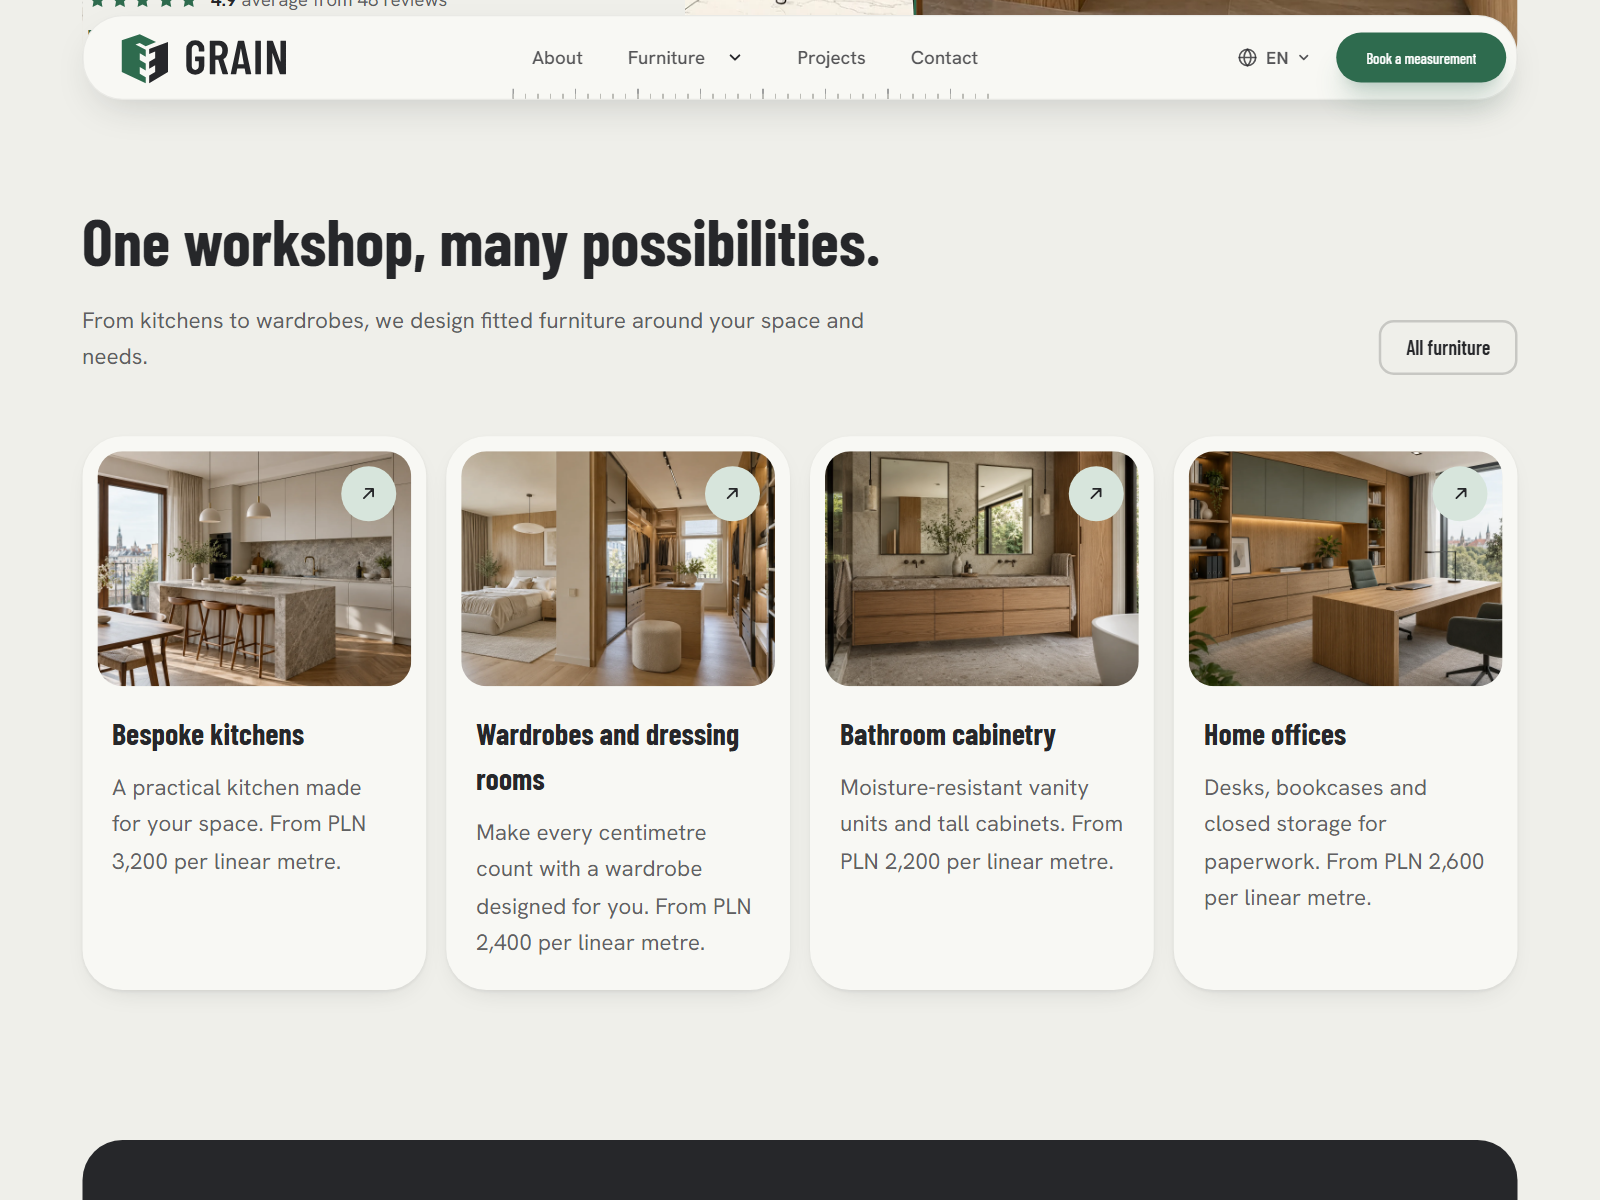
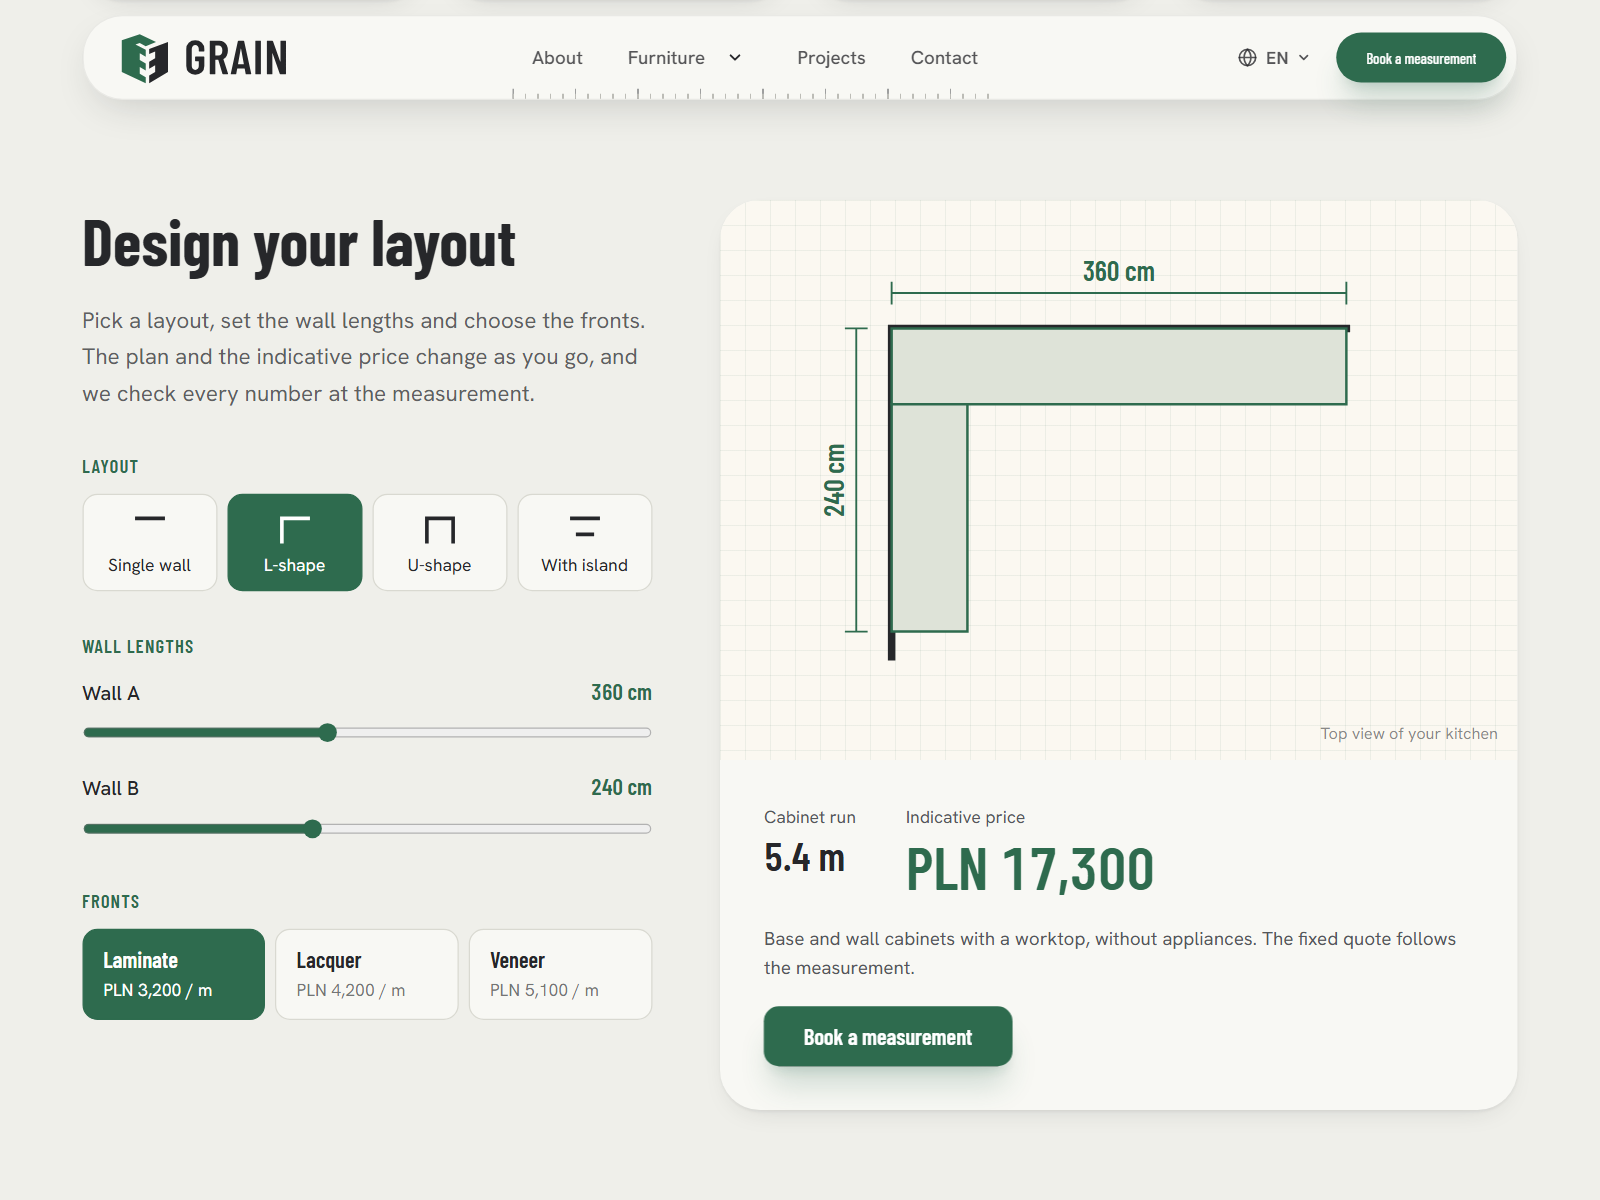
projekt: feat(katalog), Grain i Pine: kalkulator, FAQ, śniadania i zasady pobytu w opisach i zrzutach, pole screens w template.json

diff --git a/templates/grain/copy/dribbble.md b/templates/grain/copy/dribbble.md
@@ -1,7 +1,7 @@
 Title: Grain, Bespoke Furniture Website
 
 Description:
-Grain is a website design for bespoke furniture and kitchen makers who want clients to trust the plan before the first cut. In the hero a visitor drags a line across the same kitchen, from the technical drawing on one side to the finished room on the other, with a 3420 mm dimension line running over both. Furniture cards show the price per linear metre. Fronts and worktops hang like sample tags on a ring, and each one straightens when you point at it. The process from measurement to installation sits on dimension lines with the time each stage takes. Forest green and charcoal with Barlow Condensed headings give it a precise, workshop character. The layout is designed for desktop, tablet and mobile screens.
+Grain is a website design for bespoke furniture and kitchen makers who want clients to trust the plan before the first cut. In the hero a visitor drags a line across the same kitchen, from the technical drawing on one side to the finished room on the other, with a 3420 mm dimension line running over both. Furniture cards show the price per linear metre. In the kitchen planner a visitor picks an I, L, U or island layout, sets the wall lengths and fronts, and watches a top view plan and an indicative price update. Fronts and worktops hang like sample tags on a ring, and each one straightens when you point at it. The process from measurement to installation sits on dimension lines with the time each stage takes. Forest green and charcoal with Barlow Condensed headings give it a precise, workshop character. The layout is designed for desktop, tablet and mobile screens.
 Photos were created with the help of AI image tools and edited for the layout.
 
 Tags: furniture, bespoke furniture, kitchen design, joinery, carpentry, interior, web design, ui design, website, astro

diff --git a/templates/grain/copy/behance.md b/templates/grain/copy/behance.md
@@ -3,7 +3,7 @@ Title: Grain, Bespoke Furniture Website
 Description:
 Grain is a website design for bespoke furniture and kitchen makers who want clients to trust the plan before the first cut. In the hero a visitor drags a line across the same kitchen, from the technical drawing on one side to the finished room on the other, with a 3420 mm dimension line running over both.
 
-Furniture cards show the price per linear metre, and kitchens, wardrobes, bathrooms and home offices each get a page with materials, fittings, price and timing. Fronts and worktops hang like sample tags on a ring and straighten when you point at them. The process from measurement to installation sits on dimension lines with the time each stage takes. Client reviews come with a photo of the finished room, and the projects page shows eight interiors with the city and floor area.
+In the kitchen planner a visitor picks an I, L, U or island layout, sets the wall lengths with sliders and chooses laminate, lacquer or veneer fronts. A top view plan with dimension lines redraws as they go, next to the cabinet run and an indicative price. Furniture cards show the price per linear metre, and kitchens, wardrobes, bathrooms and home offices each get a page with materials, fittings, price and timing. Fronts and worktops hang like sample tags on a ring and straighten when you point at them. The process from measurement to installation sits on dimension lines with the time each stage takes. Client reviews come with a photo of the finished room, and the projects page shows eight interiors with the city and floor area. Six common questions close the page in a FAQ with structured data for search.
 
 Forest green, charcoal and warm off-white, with Barlow Condensed headings and Hanken Grotesk text, give the page a precise, workshop character.
 

diff --git a/templates/pine/copy/dribbble.md b/templates/pine/copy/dribbble.md
@@ -1,7 +1,7 @@
 Title: Pine, Mountain Guesthouse Website
 
 Description:
-Pine is a website design for small mountain guesthouses that want guests to picture the stay before they book. Next to the hero photo, a column of trail signposts gives the walking time to the peak, the temple and the waterfall, each marked in its trail colour, above a short arrival, departure and guests bar. Room cards show guests, size and the price per night. In the trails section a visitor switches between summer and winter, and every route lists its time, distance and level. A hosts section, guest reviews and a short availability form close the page. Forest green and cream with Oswald headings give it a calm, outdoor character. The layout is designed for desktop, tablet and mobile screens.
+Pine is a website design for small mountain guesthouses that want guests to picture the stay before they book. Next to the hero photo, a column of trail signposts gives the walking time to the peak, the temple and the waterfall, each marked in its trail colour, above a short arrival, departure and guests bar. Room cards show guests, size and the price per night. A breakfast section sets out the hours, what is on the table and a question about diets. In the trails section a visitor switches between summer and winter, and every route lists its time, distance and level. A hosts section, guest reviews, house rules for check-in, parking and pets, and a short availability form close the page. Forest green and cream with Oswald headings give it a calm, outdoor character. The layout is designed for desktop, tablet and mobile screens.
 Photos were created with the help of AI image tools and edited for the layout.
 
 Tags: guesthouse, mountain lodge, hotel, bed and breakfast, travel, hospitality, web design, ui design, website, astro

diff --git a/templates/pine/copy/behance.md b/templates/pine/copy/behance.md
@@ -3,7 +3,7 @@ Title: Pine, Mountain Guesthouse Website
 Description:
 Pine is a website design for small mountain guesthouses that want guests to picture the stay before they book. Next to the hero photo, a column of trail signposts gives the walking time to the peak, the temple and the waterfall, each marked in its trail colour, above a short arrival, departure and guests bar.
 
-Room cards show guests, size and the price per night, and each room has its own page with amenities and an enquiry button. In the trails section a visitor switches between summer and winter photos, while the route list keeps the time, distance and level of every trail. The hosts section introduces the people who run the house, followed by guest reviews, an area page with nearby sights and a short availability form with dates and room choice.
+Room cards show guests, size and the price per night, and each room has its own page with amenities and an enquiry button. Breakfast gets its own section with the hours, a menu list from local bakers and farms, and a diet question that leads to the enquiry form. In the trails section a visitor switches between summer and winter photos, while the route list keeps the time, distance and level of every trail. The hosts section introduces the people who run the house, followed by guest reviews, house rules for check-in, minimum stay, parking and pets, an area page with nearby sights and a short availability form with dates and room choice.
 
 Forest green, cream and the red, blue and yellow of mountain trail marks, with Oswald headings and Source Sans 3 text, give the page a calm, outdoor character.
 
